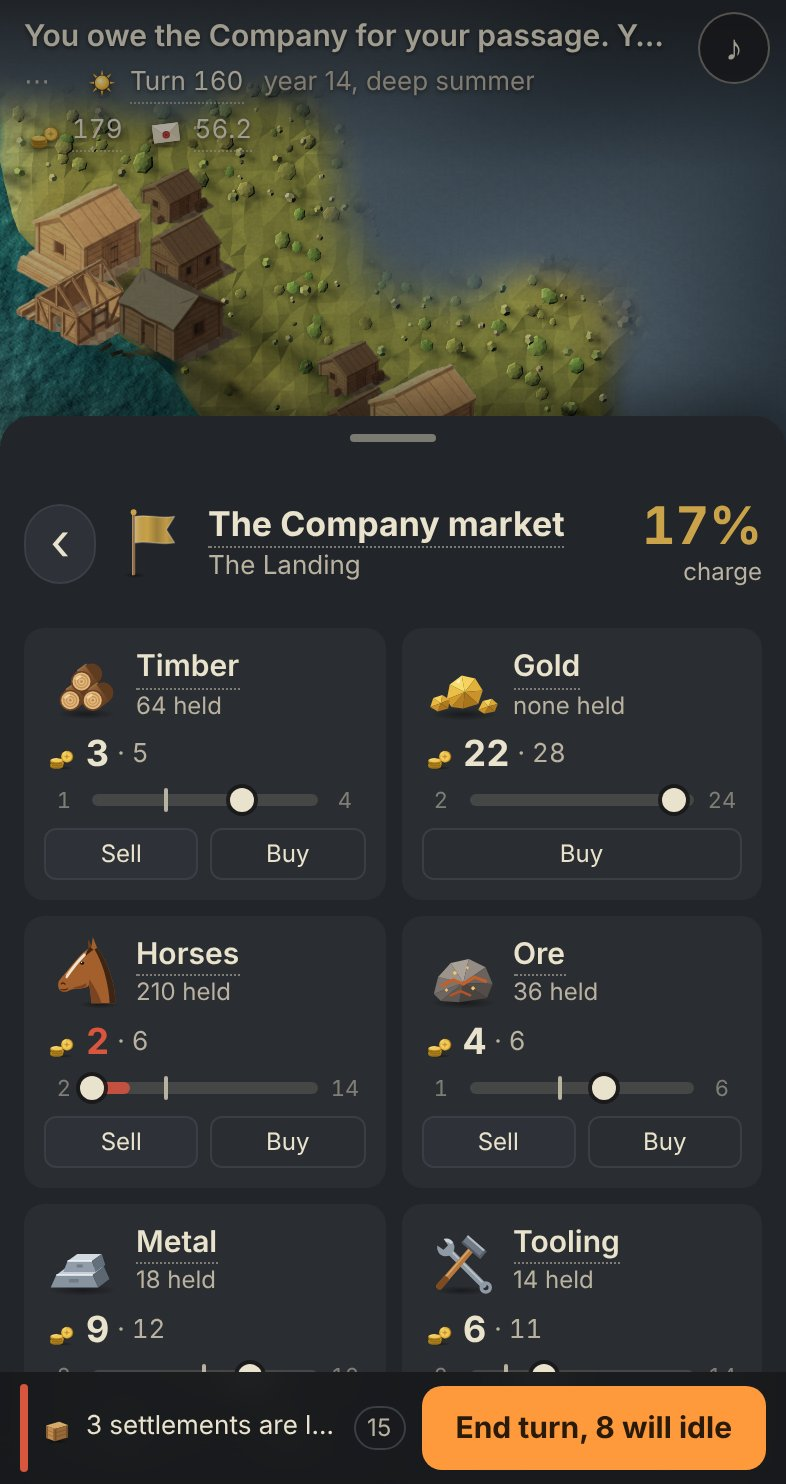
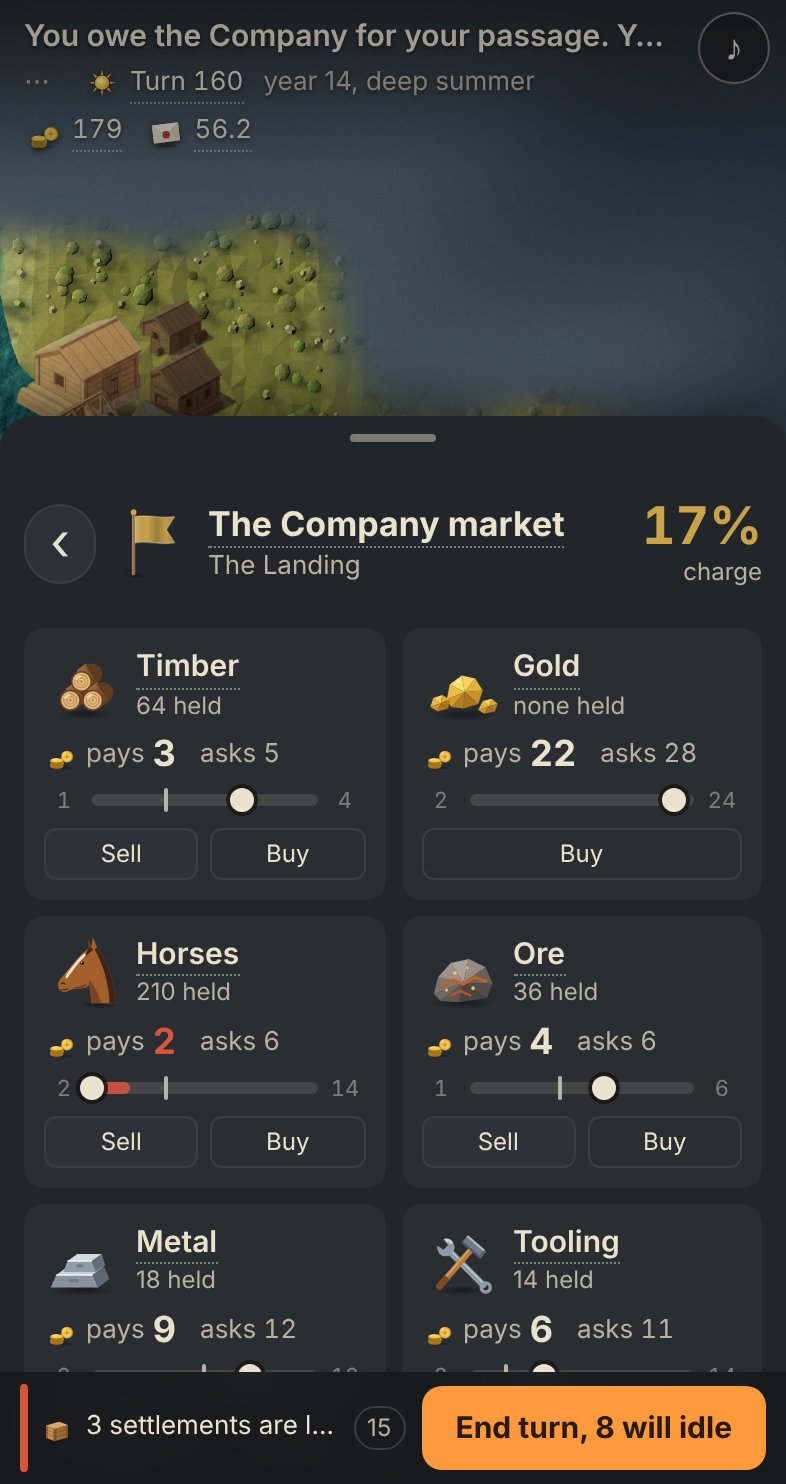
Interface pictures, review: the market's prices carry their words
Each market tile now says pays and asks beside its two figures, as the
good's sheet does, since order alone did not say which was which. On a
narrow tile what it asks wraps under what it pays. A person in a list
keeps the width of their own words, so a long line about what they would
become wraps instead of crowding them on a small screen. Market and
school pictures taken again.

Claude-Session: https://claude.ai/code/session_01UnwF8UyZDWb3Ujp9A9GwjM

diff --git a/src/ui/style.css b/src/ui/style.css
@@ -433,9 +433,10 @@ p { margin: var(--space-3) 0; }
 .mt-name { display: flex; flex-direction: column; align-items: flex-start; min-width: 0; }
 .mt-name .term { font-weight: var(--weight-medium); overflow-wrap: anywhere; }
 .mt-name .held { font-size: var(--text-tiny); color: var(--ink-dim); white-space: nowrap; }
-.mt-price { display: flex; align-items: center; gap: var(--space-2); font-variant-numeric: tabular-nums; }
-.mt-price b { font-size: var(--text-head); line-height: var(--leading-tight); font-weight: var(--weight-strong); }
-.mt-price .ask { font-size: var(--text-small); color: var(--ink-dim); }
+.mt-price { display: flex; flex-wrap: wrap; align-items: center; gap: var(--space-2); font-variant-numeric: tabular-nums; }
+/* what it pays stands a little apart from what it asks, which wraps under it on a narrow tile */
+.mt-price b { font-size: var(--text-head); line-height: var(--leading-tight); font-weight: var(--weight-strong); margin-right: var(--space-4); }
+.mt-price .ask { font-size: var(--text-small); color: var(--ink-dim); white-space: nowrap; }
 .mtile.dumped .mt-price b { color: var(--loss); }
 .mtile.embargoed .held { color: var(--warn); }
 .mtile.embargoed .mt-head .ic, .mtile.embargoed .mt-price { opacity: var(--ic-faint); }
@@ -481,7 +482,9 @@ p { margin: var(--space-3) 0; }
 .now { display: inline-flex; align-items: center; gap: var(--space-2); font-size: var(--text-small); color: var(--ink-dim); }
 .now small { font-size: var(--text-small); }
 .now.idle { color: var(--warn); }
-.person-row .here { flex: none; }
+/* the person keeps the width of their own words; what they would become here gives way and wraps */
+.person-row .who { min-width: auto; }
+.person-row .here { flex: 0 1 auto; min-width: 0; text-align: right; }
 .person-row .acts { flex: none; display: flex; flex-wrap: wrap; justify-content: flex-end; gap: var(--space-2); max-width: var(--acts-max); }
 .person-row.holder { border-bottom-color: transparent; }
 .fig.would b { font-weight: var(--weight-strong); }

diff --git a/src/ui/sheets.ts b/src/ui/sheets.ts
@@ -627,7 +627,10 @@ function marketTile(app: App, s: GameState, st: Settlement, g: GoodId, canTrade:
       goodMark(g, 'tile'),
       h('div', { class: 'mt-name' }, T(app, g, GOOD_NAMES[g]), h('span', { class: 'held' }, emb ? 'embargoed' : held > 0 ? `${fmt(held)} held` : 'none held')),
     ),
-    h('div', { class: 'mt-price' }, icon('coin', 'pill'), h('b', {}, String(sell)), h('span', { class: 'ask' }, `· ${buy}`),
+    // what it pays, large, and what it asks, small, each with its word, as the good's sheet says them
+    h('div', { class: 'mt-price' }, icon('coin', 'pill'),
+      h('span', { class: 'ask', 'aria-hidden': 'true' }, 'pays'), h('b', { 'aria-hidden': 'true' }, String(sell)),
+      h('span', { class: 'ask', 'aria-hidden': 'true' }, `asks ${buy}`),
       h('span', { class: 'sr' }, ` The Company pays ${sell} a unit and asks ${buy}.`)),
     priceGauge(s, g),
     canTrade ? h('div', { class: 'mt-acts' },

diff --git a/DECISIONS.md b/DECISIONS.md
@@ -3091,6 +3091,12 @@ the charge as a large percentage.
 **Why.** The brief, phase 2. The gap is the market's own "below where it would be with nothing
 sold" from the dumping card, so the board and the card never disagree.
 
+**Changed in review, the same day.** The two figures carry their words, pays and asks, as the good's
+sheet says them: order alone did not say which was which once the table's column heading had gone.
+On a narrow tile what it asks wraps under what it pays. And in a list of people the person keeps
+the width of their own words, so a long line about what they would become wraps instead of
+crowding them out on a 320 point screen.
+
 ### 181. consignPreview is the one helper in the simulation, and buying moves no price
 
 **What.** `consignPreview(s, good, amount)` in `src/sim/market.ts` walks the lots `consign` walks,
